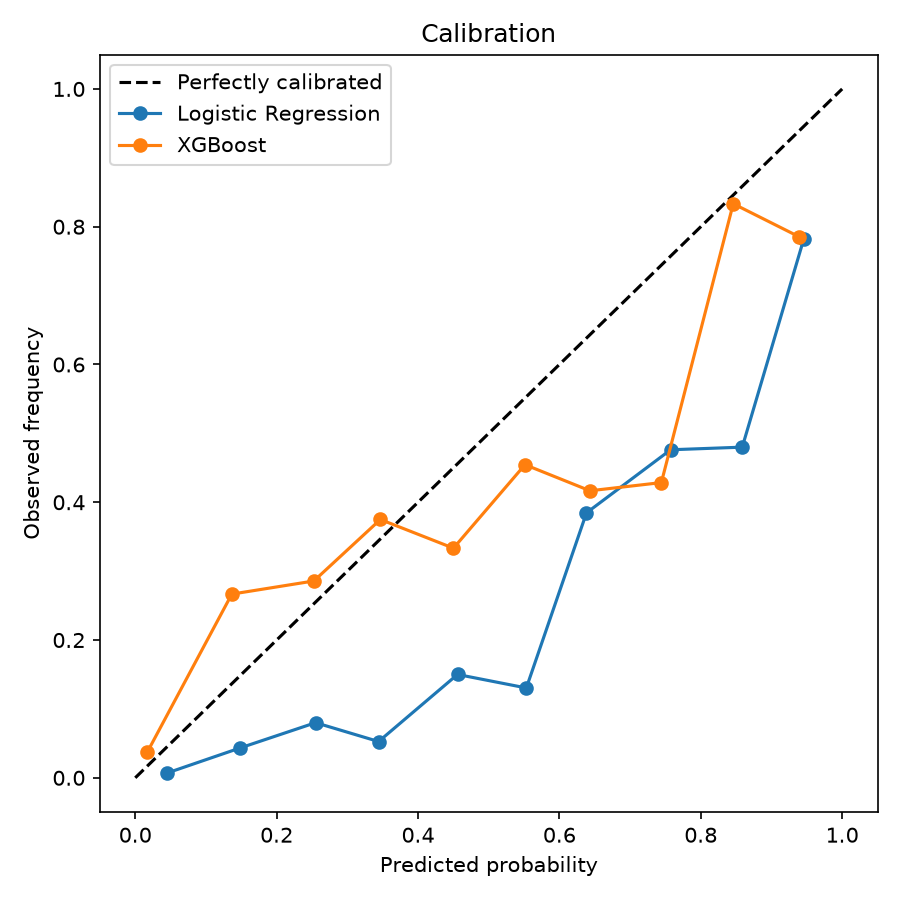
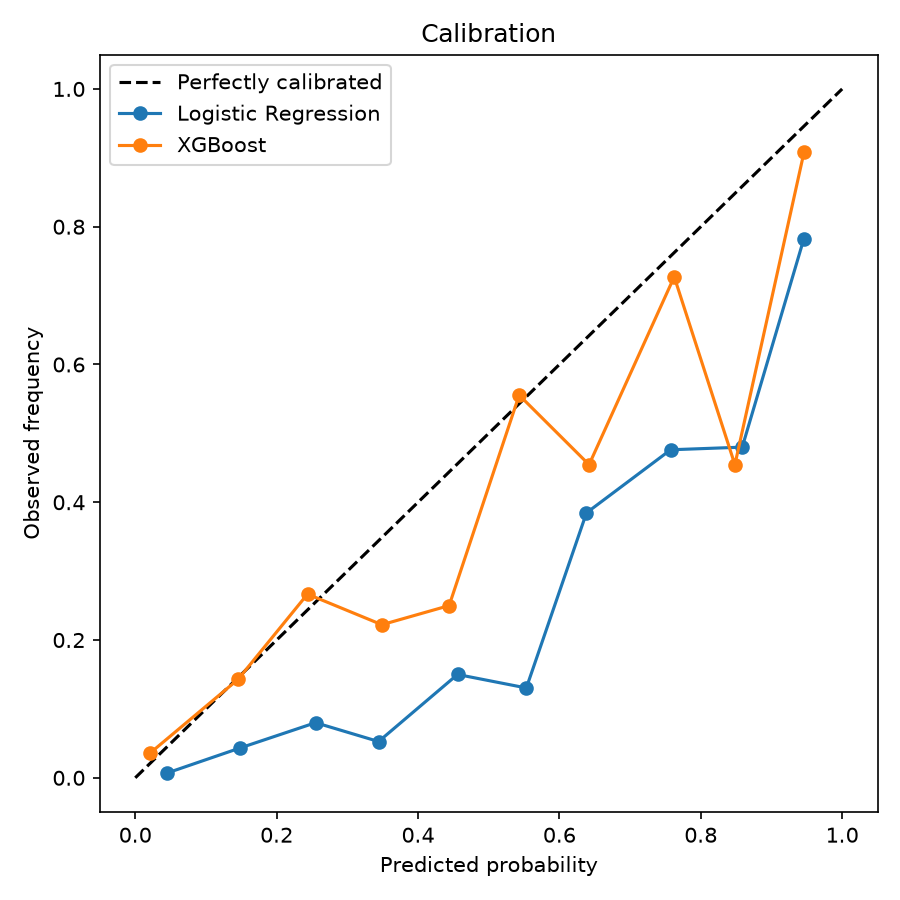
Step 5: Model fine-tuning

diff --git a/src/models/tune.py b/src/models/tune.py
@@ -1,0 +1,124 @@
+"""Step 5 — hyperparameter tuning with cross-validation.
+
+Tunes the XGBoost pipeline with a randomized search over a stratified
+cross-validation on the TRAINING set only (the test set is never touched during
+tuning, so there is no leakage). We optimize AUPRC, which is more informative
+than accuracy for an imbalanced outcome. The whole preprocessing + model is
+wrapped in a single Pipeline so each CV fold re-fits the preprocessing correctly.
+
+Reports the cross-validated score (mean +/- std) and the held-out test
+performance, and saves the best parameters.
+
+Usage:
+    python -m src.models.tune --config configs/model.yaml --tune-config configs/tune.yaml
+"""
+
+from __future__ import annotations
+
+import argparse
+import json
+from pathlib import Path
+
+import pandas as pd
+import yaml
+from sklearn.model_selection import RandomizedSearchCV, StratifiedKFold
+from sklearn.pipeline import Pipeline
+from xgboost import XGBClassifier
+
+from src.evaluation.metrics import compute_metrics
+from src.features.preprocess import (
+    apply_filters,
+    build_preprocessor,
+    dedup_first_encounter,
+    split_columns,
+    train_test_split_patient,
+)
+
+
+def load_yaml(path: str) -> dict:
+    with open(path, "r", encoding="utf-8") as f:
+        return yaml.safe_load(f)
+
+
+def build_search_space(tune_cfg: dict, scale_pos_weight: float) -> dict:
+    """Prefix each hyperparameter with 'clf__' to target the model in the Pipeline."""
+    space = {f"clf__{k}": v for k, v in tune_cfg["search_space"].items()}
+    # Let the search decide whether class-imbalance weighting helps.
+    space["clf__scale_pos_weight"] = [1.0, scale_pos_weight]
+    return space
+
+
+def main() -> None:
+    parser = argparse.ArgumentParser(description="Tune the XGBoost model with CV.")
+    parser.add_argument("--config", default="configs/model.yaml")
+    parser.add_argument("--tune-config", default="configs/tune.yaml")
+    args = parser.parse_args()
+    cfg = load_yaml(args.config)
+    tcfg = load_yaml(args.tune_config)
+    seed = cfg["split"]["random_state"]
+
+    # Data prep (identical to training).
+    df = pd.read_parquet(cfg["input"]["processed_file"])
+    df = apply_filters(df, cfg)
+    df = dedup_first_encounter(df, cfg)
+    x_raw, y, groups = split_columns(df, cfg)
+    x_tr, x_te, y_tr, y_te, _g_tr, _g_te = train_test_split_patient(x_raw, y, groups, df, cfg)
+
+    pos = int(y_tr.sum())
+    spw = (len(y_tr) - pos) / pos if pos else 1.0
+
+    pipe = Pipeline([
+        ("pre", build_preprocessor(x_tr, cfg)),
+        ("clf", XGBClassifier(eval_metric="logloss", tree_method="hist", random_state=seed)),
+    ])
+    cv = StratifiedKFold(n_splits=tcfg["cv_folds"], shuffle=True, random_state=seed)
+    search = RandomizedSearchCV(
+        pipe,
+        build_search_space(tcfg, spw),
+        n_iter=tcfg["n_iter"],
+        scoring=tcfg["scoring"],
+        cv=cv,
+        random_state=seed,
+        n_jobs=-1,
+        refit=True,
+    )
+
+    print(f"Running randomized search ({tcfg['n_iter']} candidates x {tcfg['cv_folds']} folds) ...")
+    search.fit(x_tr, y_tr)
+
+    best_mean = search.best_score_
+    best_std = search.cv_results_["std_test_score"][search.best_index_]
+    best_params = {k.replace("clf__", ""): v for k, v in search.best_params_.items()}
+
+    # Held-out test performance of the tuned model.
+    p_test = search.predict_proba(x_te)[:, 1]
+    test_metrics = compute_metrics(y_te, p_test, cfg["evaluation"]["threshold"])
+
+    print(f"\nBest CV {tcfg['scoring']}: {best_mean:.4f} +/- {best_std:.4f}")
+    print("Best params:")
+    for k, v in best_params.items():
+        print(f"  {k}: {v}")
+    print("\nHeld-out test metrics (tuned model):")
+    for k, v in test_metrics.items():
+        print(f"  {k}: {v}")
+
+    # Persist results.
+    Path(tcfg["paths"]["best_params_file"]).parent.mkdir(parents=True, exist_ok=True)
+    with open(tcfg["paths"]["best_params_file"], "w", encoding="utf-8") as f:
+        json.dump(best_params, f, indent=2)
+    with open(tcfg["paths"]["tuning_metrics_file"], "w", encoding="utf-8") as f:
+        json.dump(
+            {
+                "cv_scoring": tcfg["scoring"],
+                "cv_mean": round(float(best_mean), 4),
+                "cv_std": round(float(best_std), 4),
+                "test_metrics": test_metrics,
+            },
+            f,
+            indent=2,
+        )
+    print(f"\nSaved best params to {tcfg['paths']['best_params_file']}")
+
+
+if __name__ == "__main__":
+    main()

diff --git a/tests/test_tune.py b/tests/test_tune.py
@@ -1,0 +1,14 @@
+"""Offline test for the tuning module — no data or model needed."""
+
+from src.models.tune import build_search_space
+
+
+def test_build_search_space_prefixes_and_adds_weight():
+    tcfg = {"search_space": {"n_estimators": [100, 200], "max_depth": [3, 4]}}
+    space = build_search_space(tcfg, scale_pos_weight=5.0)
+    assert "clf__n_estimators" in space
+    assert "clf__max_depth" in space
+    # class-imbalance weighting is offered as a tunable choice
+    assert space["clf__scale_pos_weight"] == [1.0, 5.0]
+    # original keys are not left unprefixed
+    assert "n_estimators" not in space

diff --git a/README.md b/README.md
@@ -112,7 +112,7 @@ mortality), evaluated on a held-out test set.
 | Model | AUROC | AUPRC | Brier ↓ | Recall | Precision |
 |-------|-------|-------|---------|--------|-----------|
 | Logistic Regression | 0.90 | 0.65 | 0.127 | 0.84 | 0.46 |
-| **XGBoost** (selected) | 0.88 | 0.62 | **0.096** | 0.51 | 0.58 |
+| **XGBoost** (F1-tuned) | 0.89 | 0.63 | 0.095 | 0.58 | 0.62 |
 
 **XGBoost was selected despite a marginally lower AUROC**, because its
 probabilities are better calibrated (lower Brier score). In clinical decision
@@ -122,14 +122,15 @@ support, a predicted risk of 40% needs to *mean* 40%, not merely rank patients.
 ![Calibration](reports/figures/calibration.png)
 
 **Interpretability (SHAP).** The top drivers are all legitimate ICU mortality
-predictors — patient age, severity scores (SAPS I, SOFA), stroke and respiratory
-flags, and renal/inflammatory labs (BUN, WBC). No outcome-derived feature
-appears, which supports that the AUROC reflects real signal rather than leakage.
+predictors — patient age, stroke, severity scores (SAPS I, SOFA), fluid administration,
+and inflammatory labs (WBC). No outcome-derived feature appears, supporting that the
+AUROC reflects real signal, not leakage.
 
-**Fairness audit.** Performance is uneven across age: reliable for older patients
-(age 70–84: AUROC 0.83) but weak at the extremes (age <40: 0.59; age 85+: 0.59),
-driven by very few mortality events in those subgroups. Sexes are balanced
-(0.87 vs 0.88). This limitation is reported, not hidden.
+**Fairness audit.** Performance is fairly consistent across age after tuning
+(AUROC 0.76–0.83 for most groups), with the oldest patients (age 85+: 0.65)
+remaining the weakest subgroup — expected, given only 28 such patients. Sexes
+are balanced (0.88 vs 0.88). Notably, F1-based tuning also improved the youngest
+group (age <40) from 0.44 to 0.77. This limitation is reported, not hidden.
 
 **Evidence assistant (RAG).** Example — *"What clinical scores predict ICU
 mortality?"* returns a cited answer naming APACHE II, SAPS III, SOFA, SAPS II and
